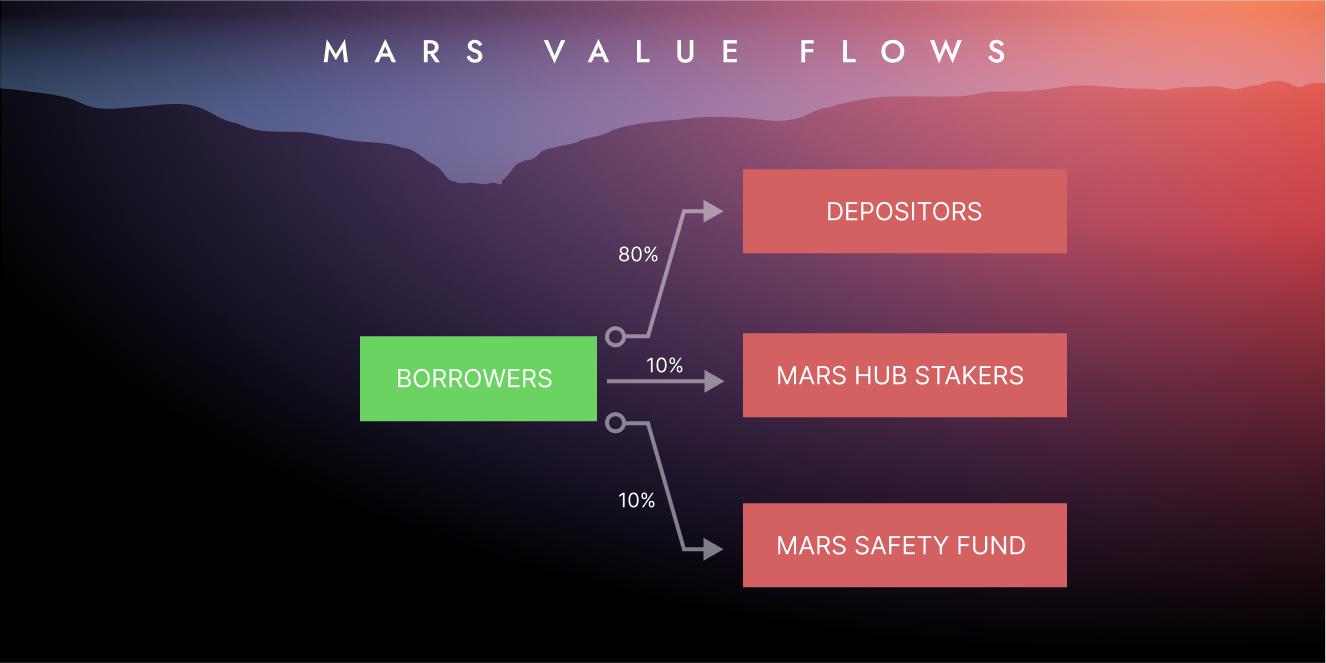
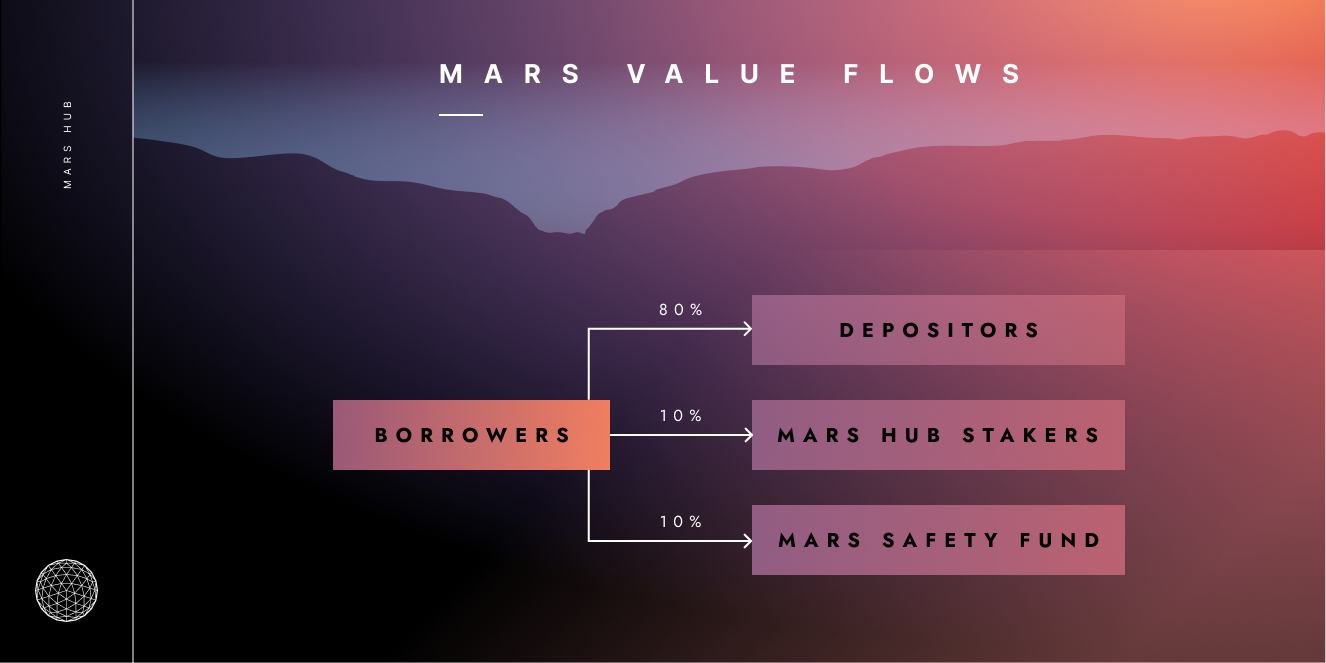
various improvements: TOCCollapsible, breadcrumbs, mobile Cards, mobile letter spacing, new assets

diff --git a/src/components/Cards/ContentBox/Box/styles.module.css b/src/components/Cards/ContentBox/Box/styles.module.css
@@ -177,3 +177,60 @@ ul.list li:before{
 .links a {
     /* width: 420px !important; */
 }
+
+@media only screen and (max-width: 500px) {
+    .box {
+      background-color: rgba(255, 255, 255, 0.07);
+    }
+  
+    .box:hover {
+      background-color: rgba(255, 255, 255, 0.07);
+    }
+  
+    .title {
+      color:rgba(255, 255, 255, 1);
+    }
+  
+    .box .titleBanner {
+      opacity: 1;
+    }
+  
+    .subtext {
+      color: rgba(255, 255, 255, 0.8);
+    }
+  
+    .box:hover .subtext {
+      color: rgba(255, 255, 255, 0.8);
+      /* font-weight: bold; */
+    }
+  
+      
+    .links {
+      color: rgba(255, 255, 255, 0.6);
+    }
+  
+    .links:hover {
+      color: rgba(255, 255, 255, 0.6);
+    }
+  
+    .box:hover .links {
+      color: rgba(255, 255, 255, 0.6);
+    }
+  
+    ul.list li:before {
+      border-right: 2px solid rgba(255, 255, 255, 0.6);
+      border-bottom: 2px solid rgba(255, 255, 255, 0.6);
+    }
+    
+    .box:hover ul.list li:before {
+      border-right: 2px solid rgba(255, 255, 255, 0.6);
+      border-bottom: 2px solid rgba(255, 255, 255, 0.6);
+      /* font-weight: bold; */
+    }
+  
+    ul.list li:hover {
+      text-decoration: underline;
+      font-weight: normal;
+    }
+  
+  }

diff --git a/src/css/custom.css b/src/css/custom.css
@@ -268,7 +268,7 @@ h1  {
   font-size: 2.566rem;
   line-height: 3.7333333333rem;
   text-transform: uppercase;
-  letter-spacing: .6rem;
+  letter-spacing: .4rem;
 }
 
 h2 {
@@ -407,16 +407,30 @@ header.hero.hero--primary.heroBanner_src-pages-index-module {
 } */
 
 nav.theme-doc-breadcrumbs {
-  height: 30px;
+  height: 10px;
   /* width: 1200px; */
   /* width: 100%; */
-  margin-bottom: 45px;
+  /* margin-top: 30px; */
+  margin-bottom: 40px;
 }
 
 div.col.col--3 {
   margin-top: 165px;
   /* padding-left: 100px; */
 }
+
+@media only screen and (max-width: 996px) {
+  nav.theme-doc-breadcrumbs {
+    height: 40px;
+    /* width: 1200px; */
+    /* width: 100%; */
+    margin-top: 90px;
+    margin-bottom: 10px;
+  }
+  
+
+}
+
 /* 
 table {
   width: 1000px;
@@ -672,4 +686,13 @@ b.navbar__title.text--truncate {
   transition: all var(--ifm-transition-fast) ease;
  }
 
+ @media only screen and (max-width: 500px) {
+  h1 {
+    font-size: 1.7rem;
+    font-style: normal;
+    font-weight: 600;
+    text-transform: uppercase;
+    letter-spacing: .2rem;
+  }
 
+}

diff --git a/src/components/ContextBox/styles.module.css b/src/components/ContextBox/styles.module.css
@@ -64,7 +64,7 @@
   .title {
     margin-left: 16px;
     margin-bottom: 8px;
-    margin-top: 8px;
+    margin-top: 10px;
 
     color: rgba(255, 255, 255, 1);
     letter-spacing: 0.25em;
@@ -141,11 +141,11 @@
 
 @media only screen and (max-width: 500px) {
   .box {
-    background-color: rgba(255, 255, 255, 0.08);
+    background-color: rgba(255, 255, 255, 0.07);
   }
 
   .box:hover {
-    background-color: rgba(255, 255, 255, 0.08);
+    background-color: rgba(255, 255, 255, 0.07);
   }
 
   .title {
@@ -193,10 +193,5 @@
     text-decoration: underline;
     font-weight: normal;
   }
-
-
-
-
-
 
 }

diff --git a/src/theme/DocItem/Layout/index.js b/src/theme/DocItem/Layout/index.js
@@ -36,11 +36,13 @@ export default function DocItemLayout({children}) {
     <div className="row">
       <div className={clsx('col', !docTOC.hidden && styles.docItemCol)}>
         <DocVersionBanner />
+        {docTOC.mobile}
         <div className={styles.docItemContainer}>
           <article>
+            {/* {docTOC.mobile} */}
             <DocBreadcrumbs />
             <DocVersionBadge />
-            {docTOC.mobile}
+            {/* {docTOC.mobile} */}
             <DocItemContent>{children}</DocItemContent>
             <DocItemFooter />
           </article>

diff --git a/src/theme/DocItem/Layout/styles.module.css b/src/theme/DocItem/Layout/styles.module.css
@@ -1,6 +1,6 @@
 .docItemContainer header + *,
 .docItemContainer article > *:first-child {
-  margin-top: 0;
+  margin-top: 70px;
 }
 
 @media (min-width: 997px) {
@@ -9,4 +9,18 @@
     max-width: 100% !important;
     /* width: 75% !important; */
   }
+
+/* .docItemContainer {
+  margin-top: 70px;
+} */
+
 }
+
+
+/* @media only screen and (max-width: 996px) {
+  .docItemContainer header + *,
+  .docItemContainer article > *:first-child {
+    margin-top: 20px;
+  }
+
+} */

diff --git a/src/theme/DocPage/Layout/styles.module.css b/src/theme/DocPage/Layout/styles.module.css
@@ -1,7 +1,7 @@
 .docPage {
   display: flex;
   width: 100%;
-  margin-top: 35px;
+  margin-top: 0px;
 }
 
 .docsWrapper {
@@ -39,4 +39,13 @@
   .docsWrapper {
     overflow: hidden;
   }
+
+  .docPage {
+    margin-top: 0px;
+  }
+
+  .banner {
+    height: 250px;
+  }
+
 }
